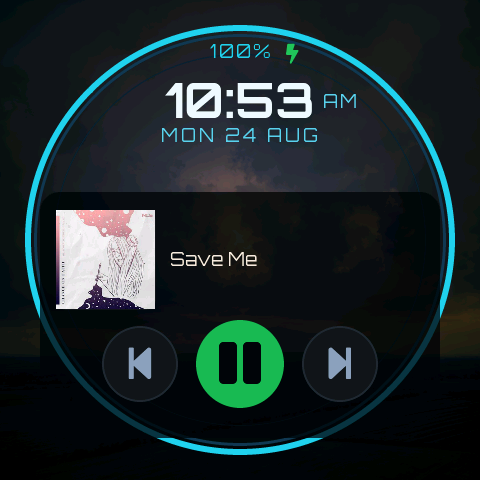
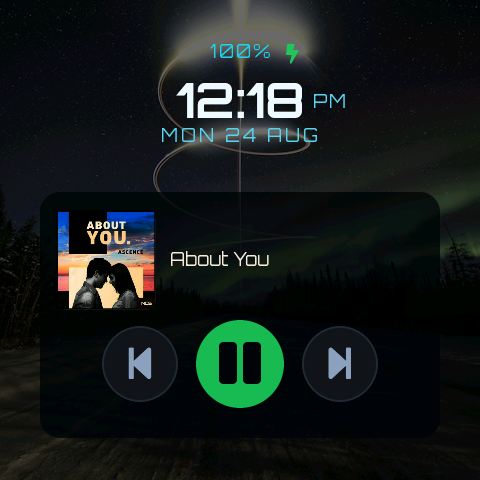
README: the drawer arrives, and better shots for lock and CONTROL
The user shot a fresh batch over the chord shutter: the 2x2 drawer that
had been a placeholder comment, the battery-care card with its charge
limit and CHARGE TO 100% ONCE one-shot for CONTROL, and a lock screen
with the now-playing card over an aurora wallpaper for the hero. The
drawer sits beside the bezel pop-out; it gets re-shot when the
scrollable-drawer rework changes its shape.

Claude-Session: https://claude.ai/code/session_01KUnH916ooMJfHpnx1gqRu6

diff --git a/README.md b/README.md
@@ -66,12 +66,13 @@ the duration and restores it however the session ends. See
 <td align="center"><img src="docs/images/music_liked.png" width="180" alt="MUSIC, liked" /><br/><b>MUSIC</b><br/><sub>track liked — the heart fills red</sub></td>
 <td align="center"><img src="docs/images/devices.png" width="180" alt="Device picker" /><br/><b>MUSIC · devices</b><br/><sub>pick which speaker or computer plays</sub></td>
 </tr><tr>
-<td align="center"><img src="docs/images/control.png" width="180" alt="CONTROL" /><br/><b>CONTROL</b><br/><sub>settings cards: audio, battery, charge limit</sub></td>
+<td align="center"><img src="docs/images/control.png" width="180" alt="CONTROL" /><br/><b>CONTROL</b><br/><sub>battery care: the charge limit and the 100%-once override</sub></td>
 <td align="center"><img src="docs/images/focus.png" width="180" alt="FOCUS" /><br/><b>FOCUS</b><br/><sub>rotate the cube to pick 60/30/10/5, tap to start</sub></td>
 <td align="center"><img src="docs/images/days.png" width="180" alt="DAYS" /><br/><b>DAYS</b><br/><sub>countdown with a colour-shifting progress bar</sub></td>
 </tr></table>
 
 <table align="center"><tr>
+<td align="center"><img src="docs/images/drawer.png" width="300" alt="App drawer" /><br/><b>The drawer</b><br/><sub>every app is a face of the cube; only the open one costs RAM</sub></td>
 <td align="center"><img src="docs/images/bezel.png" width="300" alt="Bezel pop-out" /><br/><b>Bezel pop-out</b><br/><sub>press a side key and the black bezel swells into the screen</sub></td>
 </tr></table>
 
@@ -79,9 +80,6 @@ Every image here was taken by the device itself — hold LEFT+RIGHT and it
 saves a screenshot of its own framebuffer to the card (see CLAUDE.md,
 *Autonomous hardware verification*). No camera, no emulator; these are the
 real pixels.
-
-<!-- drawer screenshot: regenerate via the harness after the scrollable-drawer
-     rework lands - the current drawer is about to change shape. -->
 
 ## The three keys
 
